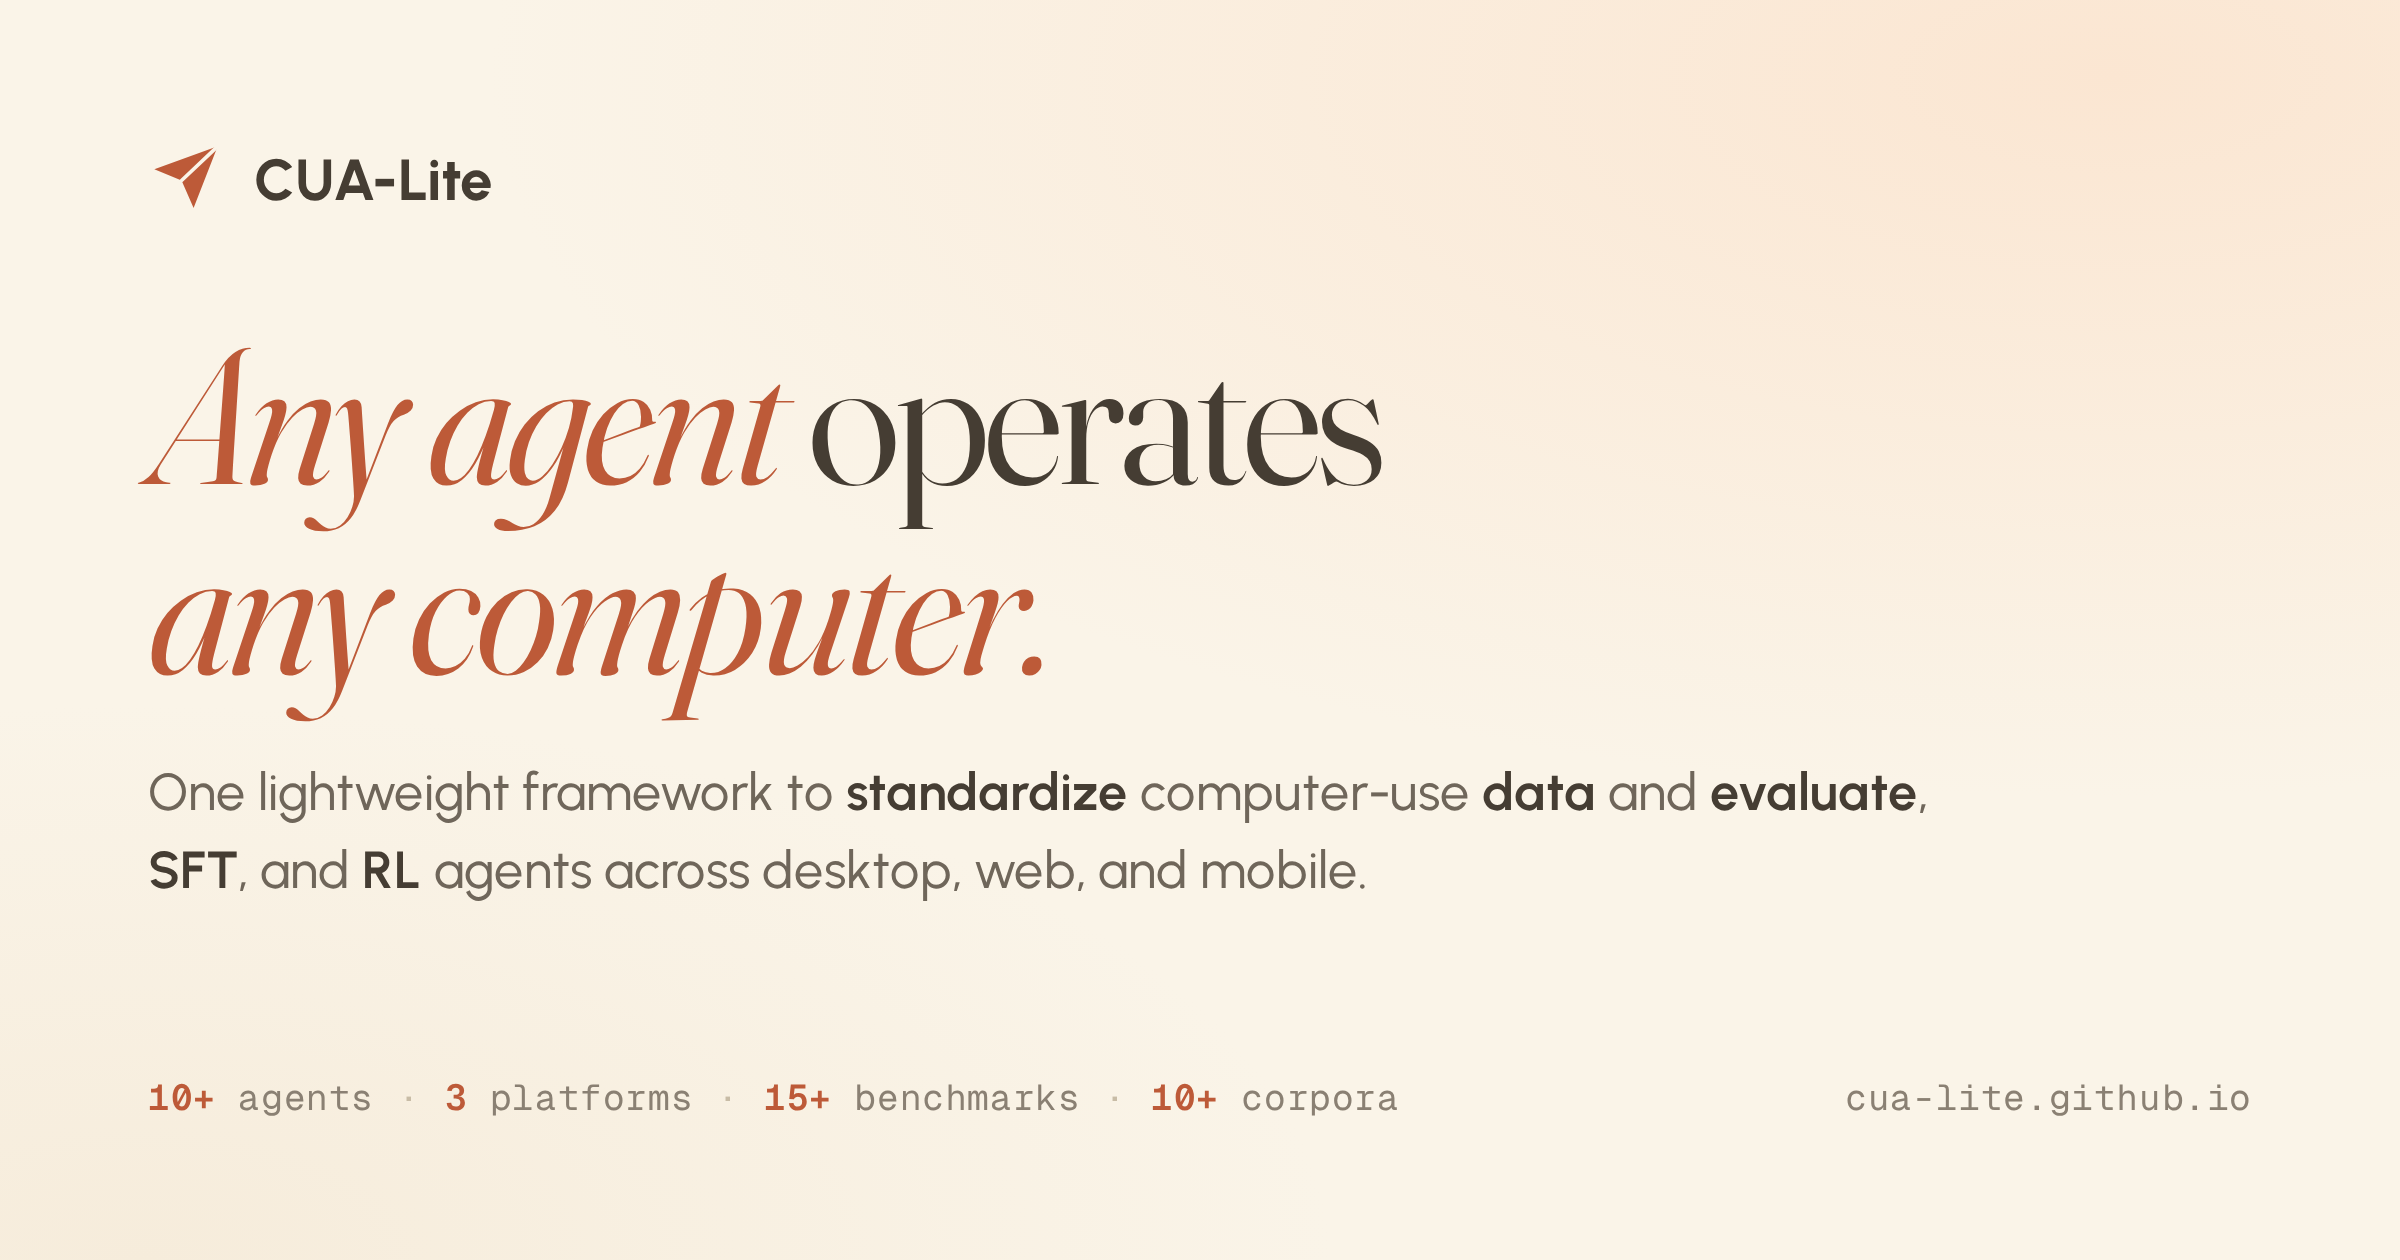
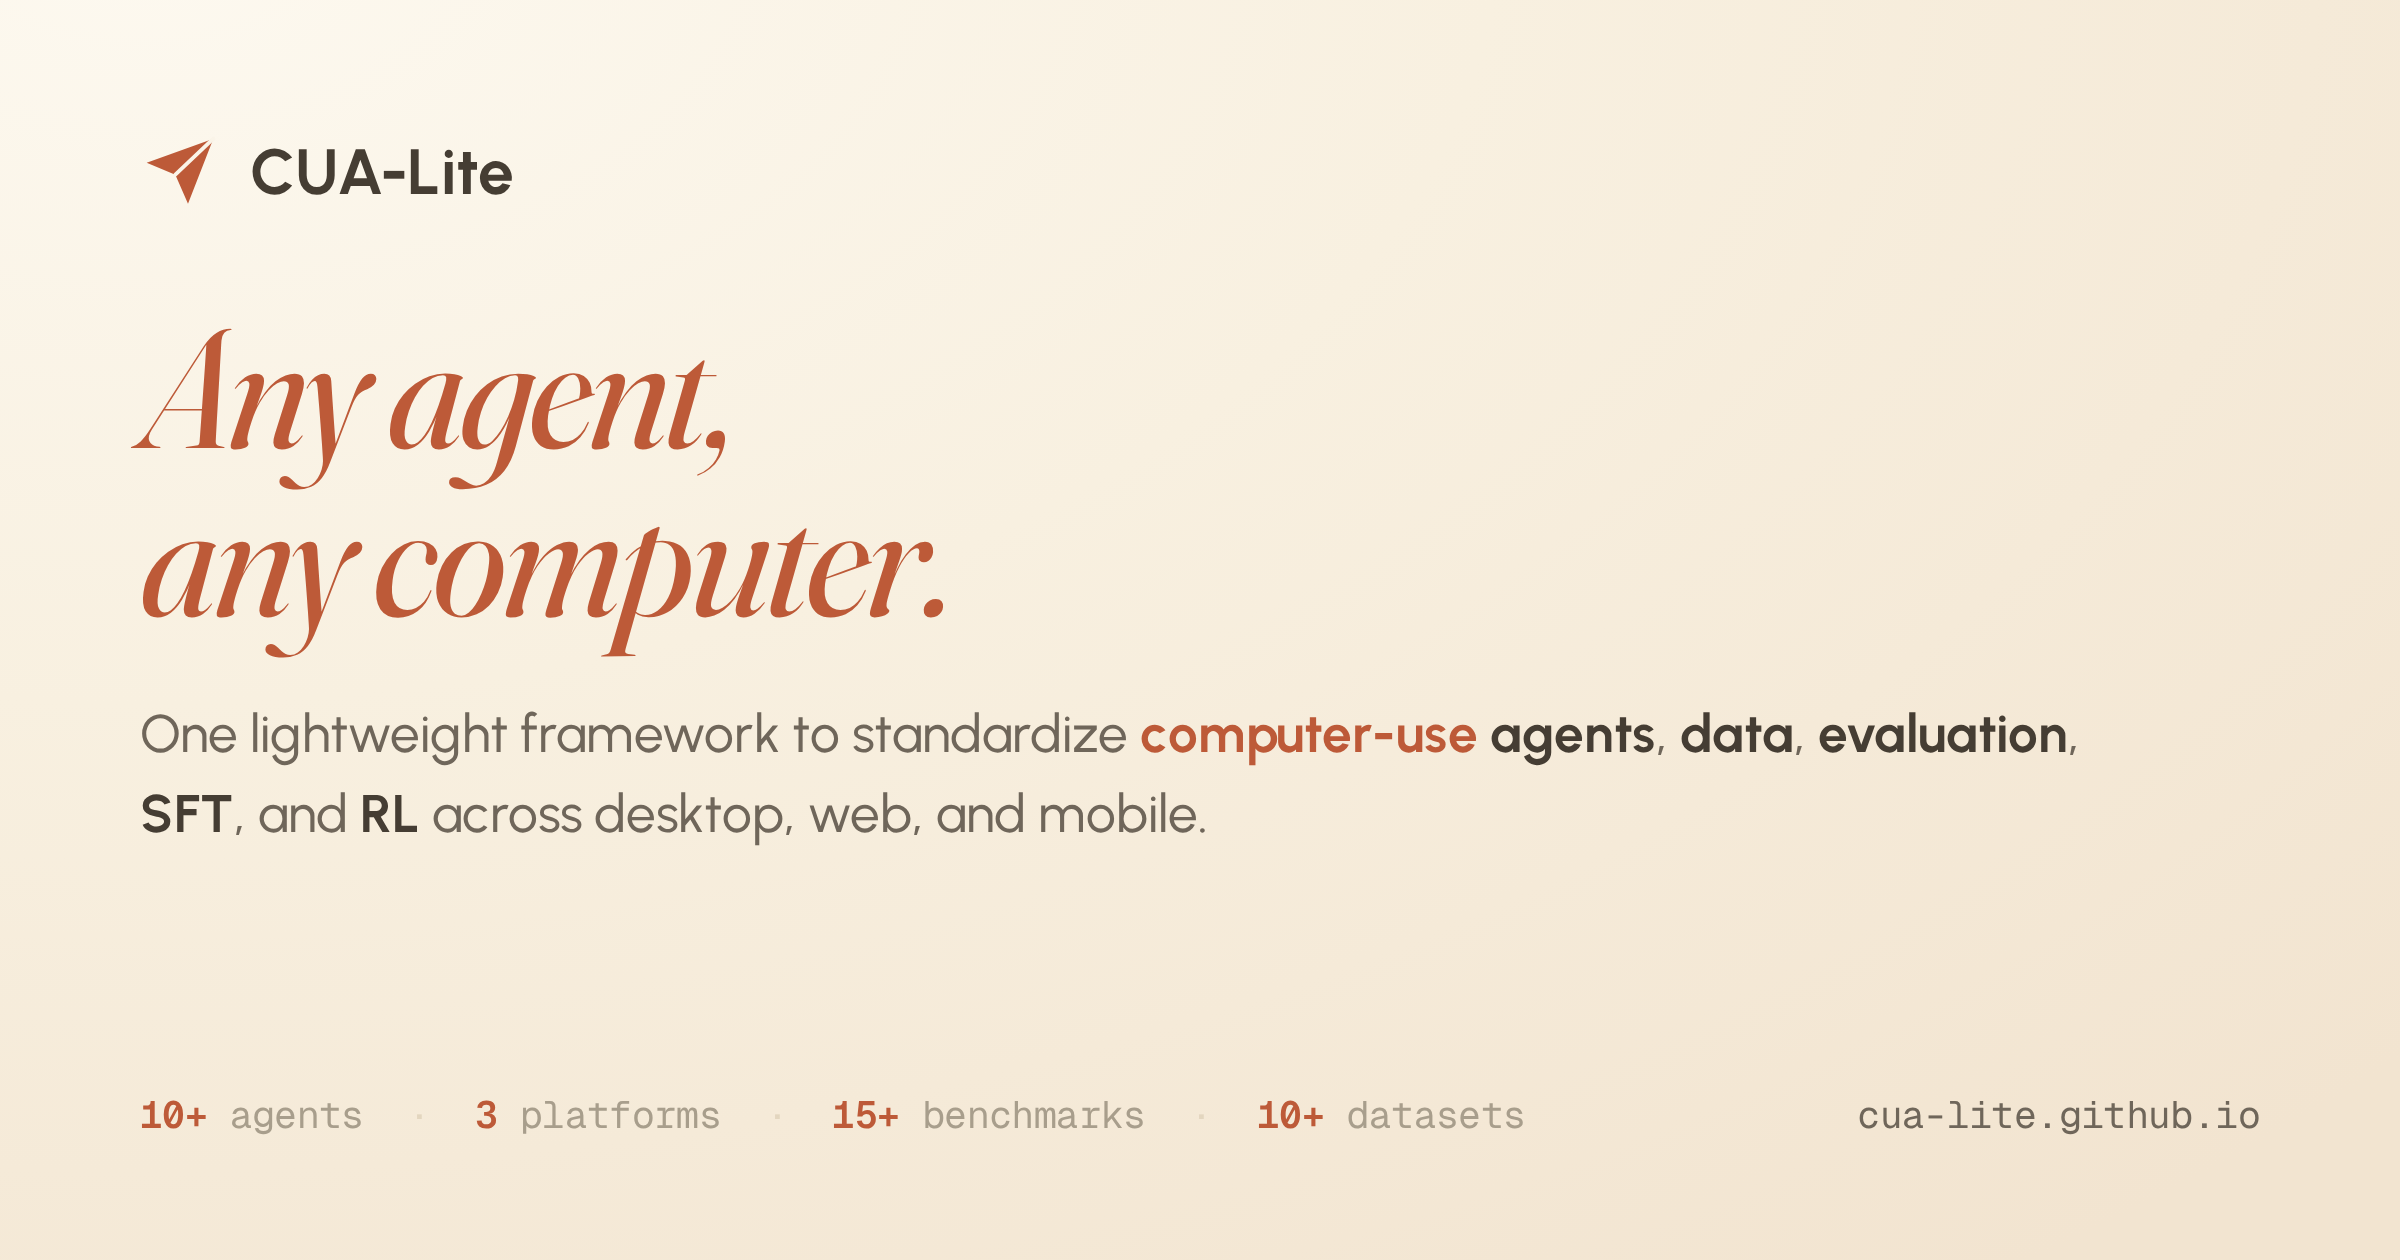
og: regenerate the social card to the current hero
The card still baked in the old "Any agent operates any computer" headline, the
old subtitle, and "corpora". Add a reproducible scripts/make_og.py that renders
the card from the live brand (fonts/logo/colors) and regenerate: new headline
"Any agent, any computer.", the current bold subtitle (orange computer-use +
agents/data/evaluation/SFT/RL), and "10+ datasets". Bump og:image ?v=2 -> ?v=3
so social caches re-fetch, and refresh the stale meta/og/twitter descriptions to
match.

Claude-Session: https://claude.ai/code/session_01Cjn6HhoNwWPnb2GrATap8p

diff --git a/index.html b/index.html
@@ -4,7 +4,7 @@
 <meta charset="UTF-8" />
 <meta name="viewport" content="width=device-width, initial-scale=1.0" />
 <title>CUA-Lite — Simple Computer Use Agents</title>
-<meta name="description" content="One lightweight framework to evaluate, SFT, and RL any computer-use agent across Desktop, Web, and Mobile — one action space, one data format, one command." />
+<meta name="description" content="One lightweight framework to standardize computer-use agents, data, evaluation, SFT, and RL across desktop, web, and mobile — one schema, one action space, one command." />
 <!-- preload above-the-fold faces so the hero renders in-font (no swap flash) -->
 <link rel="preload" href="assets/fonts/Fraunces.woff2" as="font" type="font/woff2" crossorigin />
 <link rel="preload" href="assets/fonts/Fraunces-Italic.woff2" as="font" type="font/woff2" crossorigin />
@@ -16,15 +16,15 @@
 <link rel="apple-touch-icon" href="assets/apple-touch-icon.png?v=3" />
 <meta property="og:type" content="website" />
 <meta property="og:title" content="CUA-Lite — Simple Computer Use Agents" />
-<meta property="og:description" content="One lightweight framework to evaluate, SFT, and RL any computer-use agent across Desktop, Web, and Mobile." />
+<meta property="og:description" content="One lightweight framework to standardize computer-use agents, data, evaluation, SFT, and RL across desktop, web, and mobile." />
 <meta property="og:url" content="https://cua-lite.github.io/" />
-<meta property="og:image" content="https://cua-lite.github.io/assets/og.png?v=2" />
+<meta property="og:image" content="https://cua-lite.github.io/assets/og.png?v=3" />
 <meta property="og:image:width" content="1200" />
 <meta property="og:image:height" content="630" />
 <meta name="twitter:card" content="summary_large_image" />
 <meta name="twitter:title" content="CUA-Lite — Simple Computer Use Agents" />
-<meta name="twitter:description" content="Eval, SFT, and RL any computer-use agent across Desktop, Web, and Mobile." />
-<meta name="twitter:image" content="https://cua-lite.github.io/assets/og.png?v=2" />
+<meta name="twitter:description" content="Standardize computer-use agents, data, evaluation, SFT, and RL across desktop, web, and mobile." />
+<meta name="twitter:image" content="https://cua-lite.github.io/assets/og.png?v=3" />
 <link rel="stylesheet" href="css/style.css" />
 </head>
 <body id="top">

diff --git a/scripts/make_og.py b/scripts/make_og.py
@@ -1,0 +1,79 @@
+"""Render the Open Graph / social card to assets/og.png (1200x630, @2x).
+
+Mirrors the homepage hero — logo, headline, subtitle, stats — so the link
+preview (Telegram / X / Slack …) stays in sync with the site's brand + wording.
+Edit the HTML below when the hero changes, then re-run + bump og:image ?v= in
+index.html so the social caches re-fetch.
+
+    uv run python scripts/make_og.py
+"""
+from __future__ import annotations
+
+import subprocess
+import time
+from pathlib import Path
+
+from playwright.sync_api import sync_playwright
+
+ROOT = Path(__file__).resolve().parent.parent
+PORT = 8791
+
+HTML = """<!doctype html><html><head><meta charset="utf-8"><style>
+@font-face{font-family:'Fraunces';src:url('/assets/fonts/Fraunces.woff2') format('woff2');font-weight:300 700;font-style:normal;}
+@font-face{font-family:'Fraunces';src:url('/assets/fonts/Fraunces-Italic.woff2') format('woff2');font-weight:300 700;font-style:italic;}
+@font-face{font-family:'Urbanist';src:url('/assets/fonts/Urbanist.woff2') format('woff2');font-weight:100 900;font-style:normal;}
+@font-face{font-family:'Geist Mono';src:url('/assets/fonts/GeistMono.woff2') format('woff2');font-weight:400 600;font-style:normal;}
+:root{--text:#453d33;--muted:#6f665a;--dim:#a89e8c;--accent:#bd5a38;--edge:#e3d6bf;}
+*{margin:0;padding:0;box-sizing:border-box;}
+body{width:1200px;height:630px;overflow:hidden;color:var(--text);font-family:'Urbanist',sans-serif;
+  background:radial-gradient(125% 135% at 6% -5%, #fdf9f0 0%, #f8f0e0 45%, #f2e4d0 100%);
+  padding:66px 70px 60px;display:flex;flex-direction:column;}
+.brand{display:flex;align-items:center;gap:15px;}
+.brand .plane{width:40px;height:40px;background:url('/assets/logo.svg') center/contain no-repeat;}
+.brand .name{font-weight:700;font-size:32px;letter-spacing:-0.01em;}
+h1{font-family:'Fraunces';font-style:italic;color:var(--accent);
+  font-variation-settings:'opsz' 144,'wght' 400,'SOFT' 0,'WONK' 0;
+  font-size:84px;line-height:1.0;letter-spacing:-0.025em;margin-top:46px;}
+.lead{margin-top:28px;font-size:26.5px;line-height:1.5;color:var(--muted);max-width:1010px;font-weight:450;}
+.lead b{color:var(--text);font-weight:680;}
+.lead .lc{color:var(--accent);font-weight:680;}
+.spacer{flex:1;}
+.foot{display:flex;justify-content:space-between;align-items:baseline;
+  font-family:'Geist Mono';font-size:19px;color:var(--dim);letter-spacing:0.01em;}
+.foot .stats b{color:var(--accent);font-weight:600;}
+.foot .stats i{font-style:normal;color:var(--edge);margin:0 11px;}
+.foot .url{color:var(--muted);}
+</style></head><body>
+<div class="brand"><span class="plane"></span><span class="name">CUA-Lite</span></div>
+<h1>Any agent,<br>any computer.</h1>
+<p class="lead">One lightweight framework to standardize <span class="lc">computer-use</span> <b>agents</b>, <b>data</b>, <b>evaluation</b>, <b>SFT</b>, and <b>RL</b> across desktop, web, and mobile.</p>
+<div class="spacer"></div>
+<div class="foot">
+  <div class="stats"><b>10+</b> agents <i>·</i> <b>3</b> platforms <i>·</i> <b>15+</b> benchmarks <i>·</i> <b>10+</b> datasets</div>
+  <div class="url">cua-lite.github.io</div>
+</div>
+</body></html>"""
+
+
+def main() -> None:
+    tmp = ROOT / "_og_tmp.html"
+    tmp.write_text(HTML)
+    srv = subprocess.Popen(["python3", "-m", "http.server", str(PORT), "--directory", str(ROOT)],
+                           stdout=subprocess.DEVNULL, stderr=subprocess.DEVNULL)
+    try:
+        time.sleep(1.0)
+        with sync_playwright() as p:
+            b = p.chromium.launch()
+            pg = b.new_page(viewport={"width": 1200, "height": 630}, device_scale_factor=2)
+            pg.goto(f"http://localhost:{PORT}/_og_tmp.html")
+            pg.wait_for_timeout(700)  # let the webfonts settle
+            pg.screenshot(path=str(ROOT / "assets" / "og.png"))
+            b.close()
+    finally:
+        srv.terminate()
+        tmp.unlink(missing_ok=True)
+    print("wrote assets/og.png (1200x630 @2x)")
+
+
+if __name__ == "__main__":
+    main()